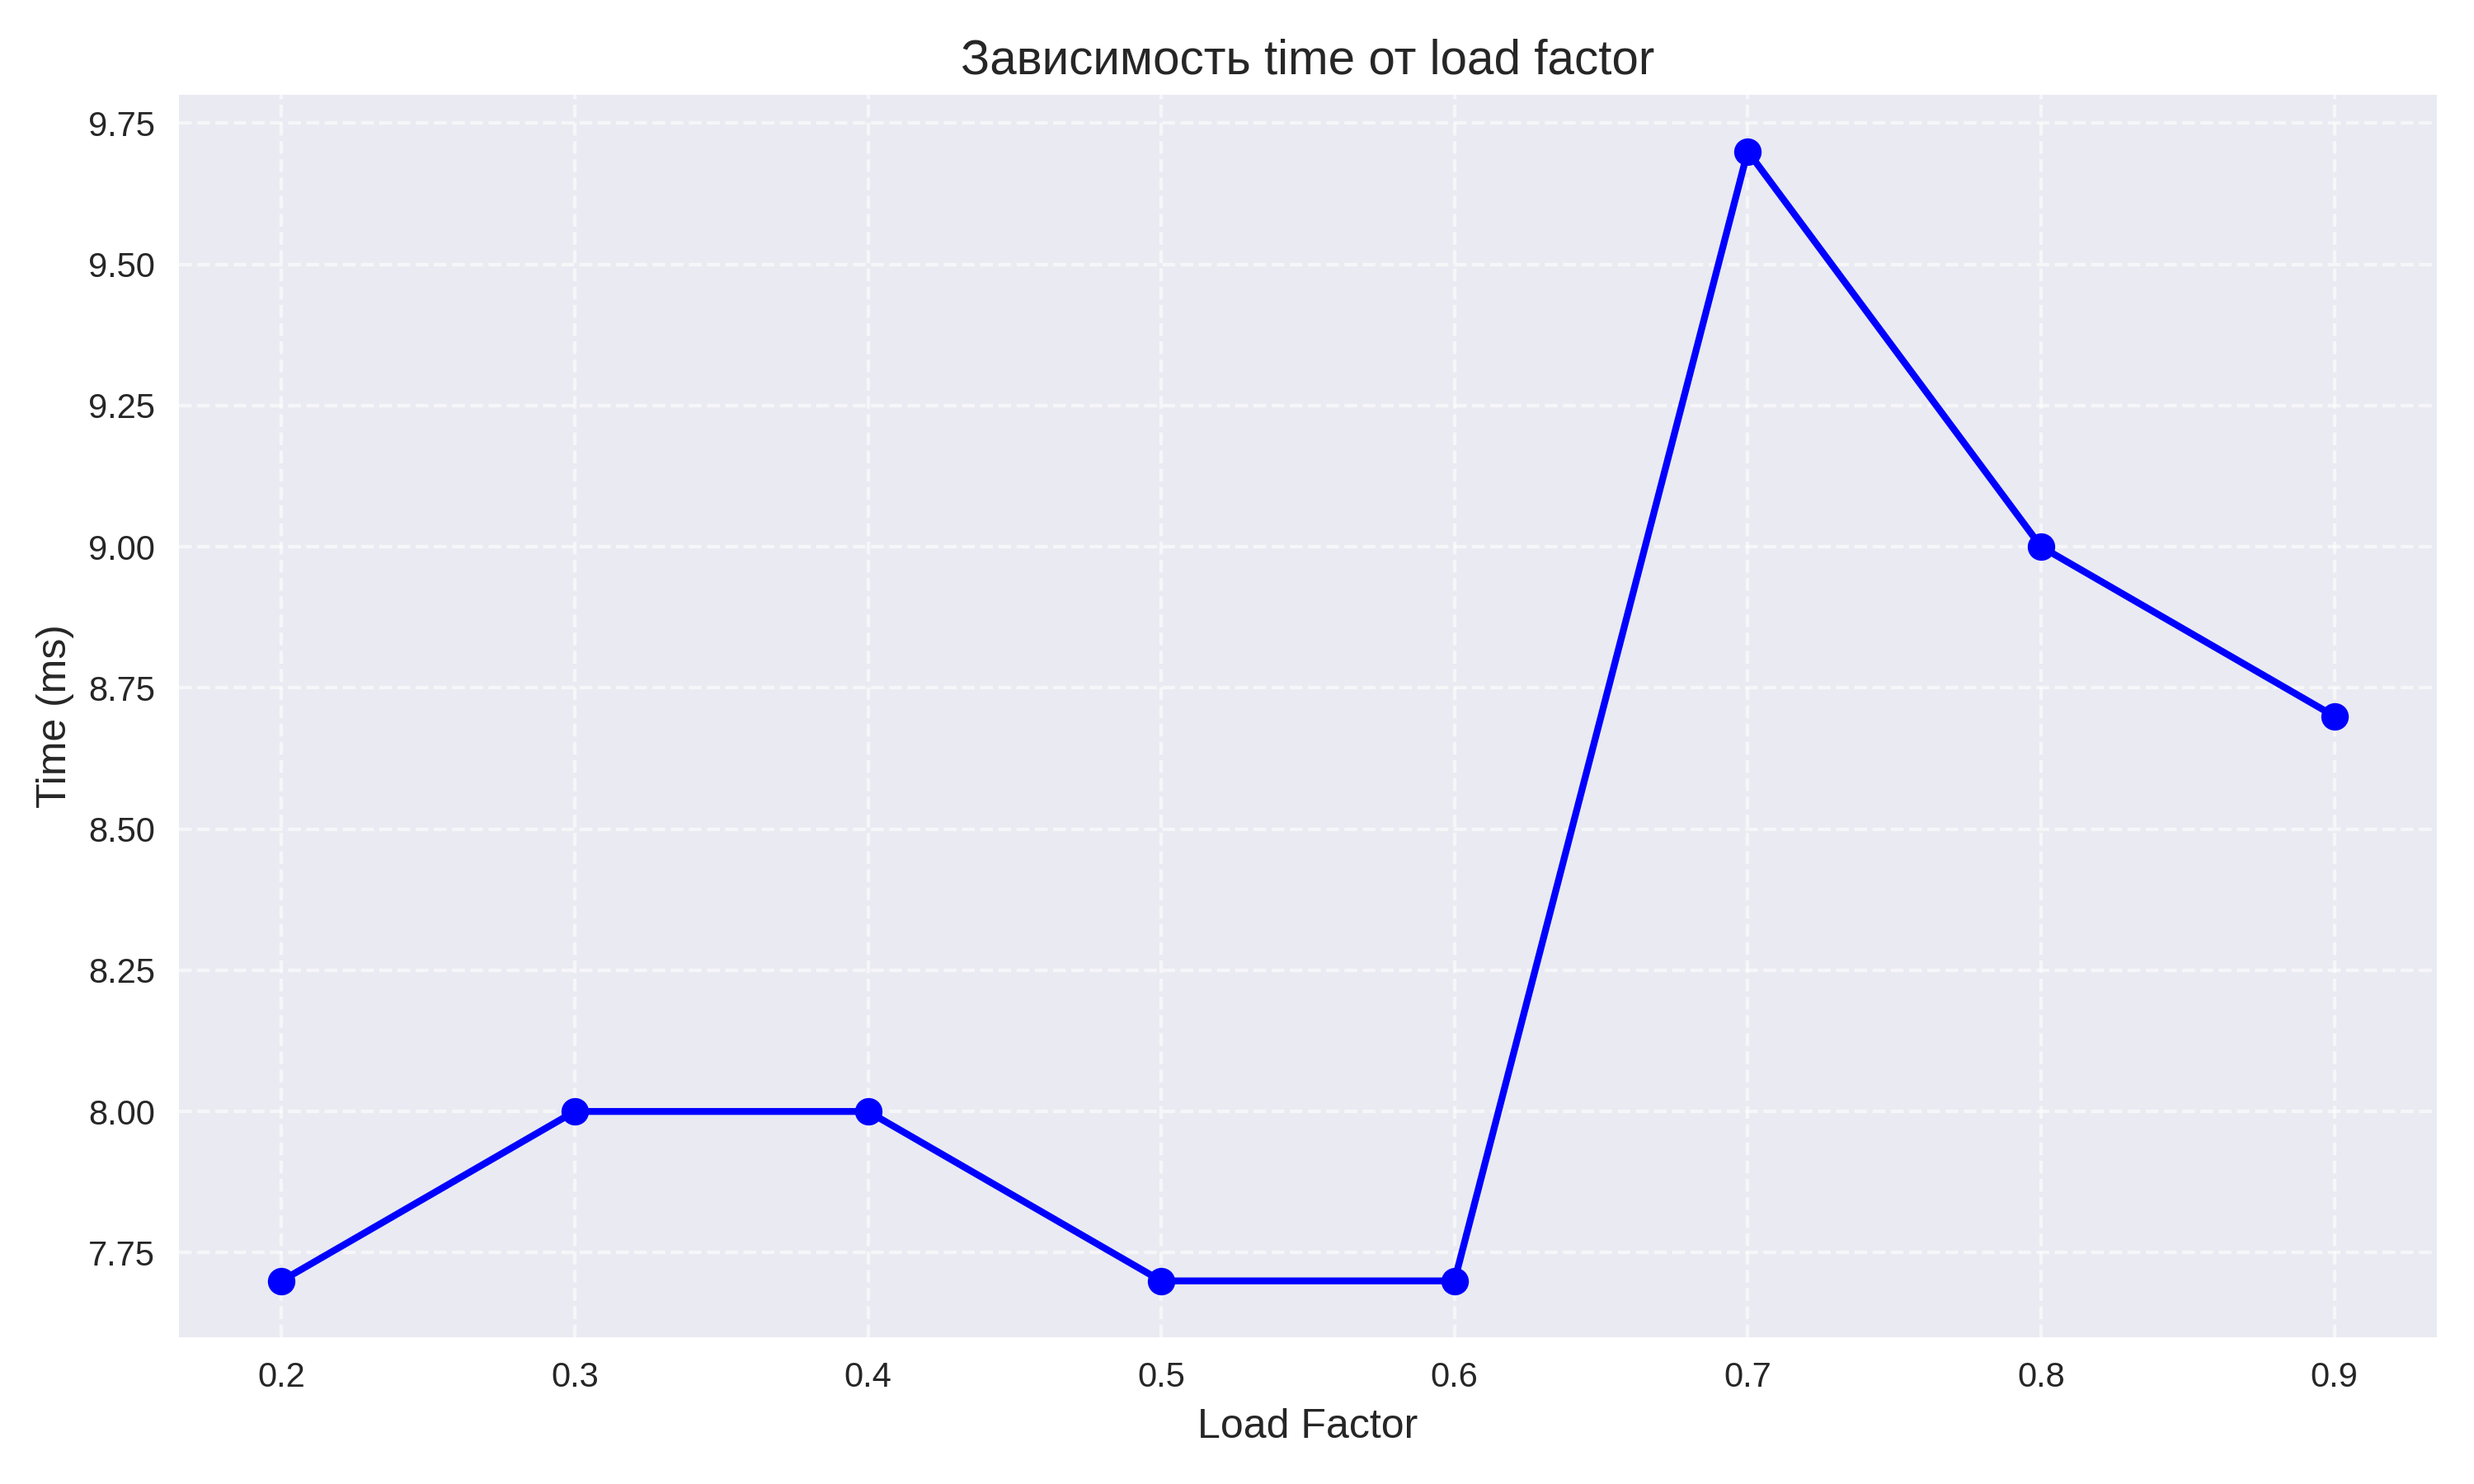
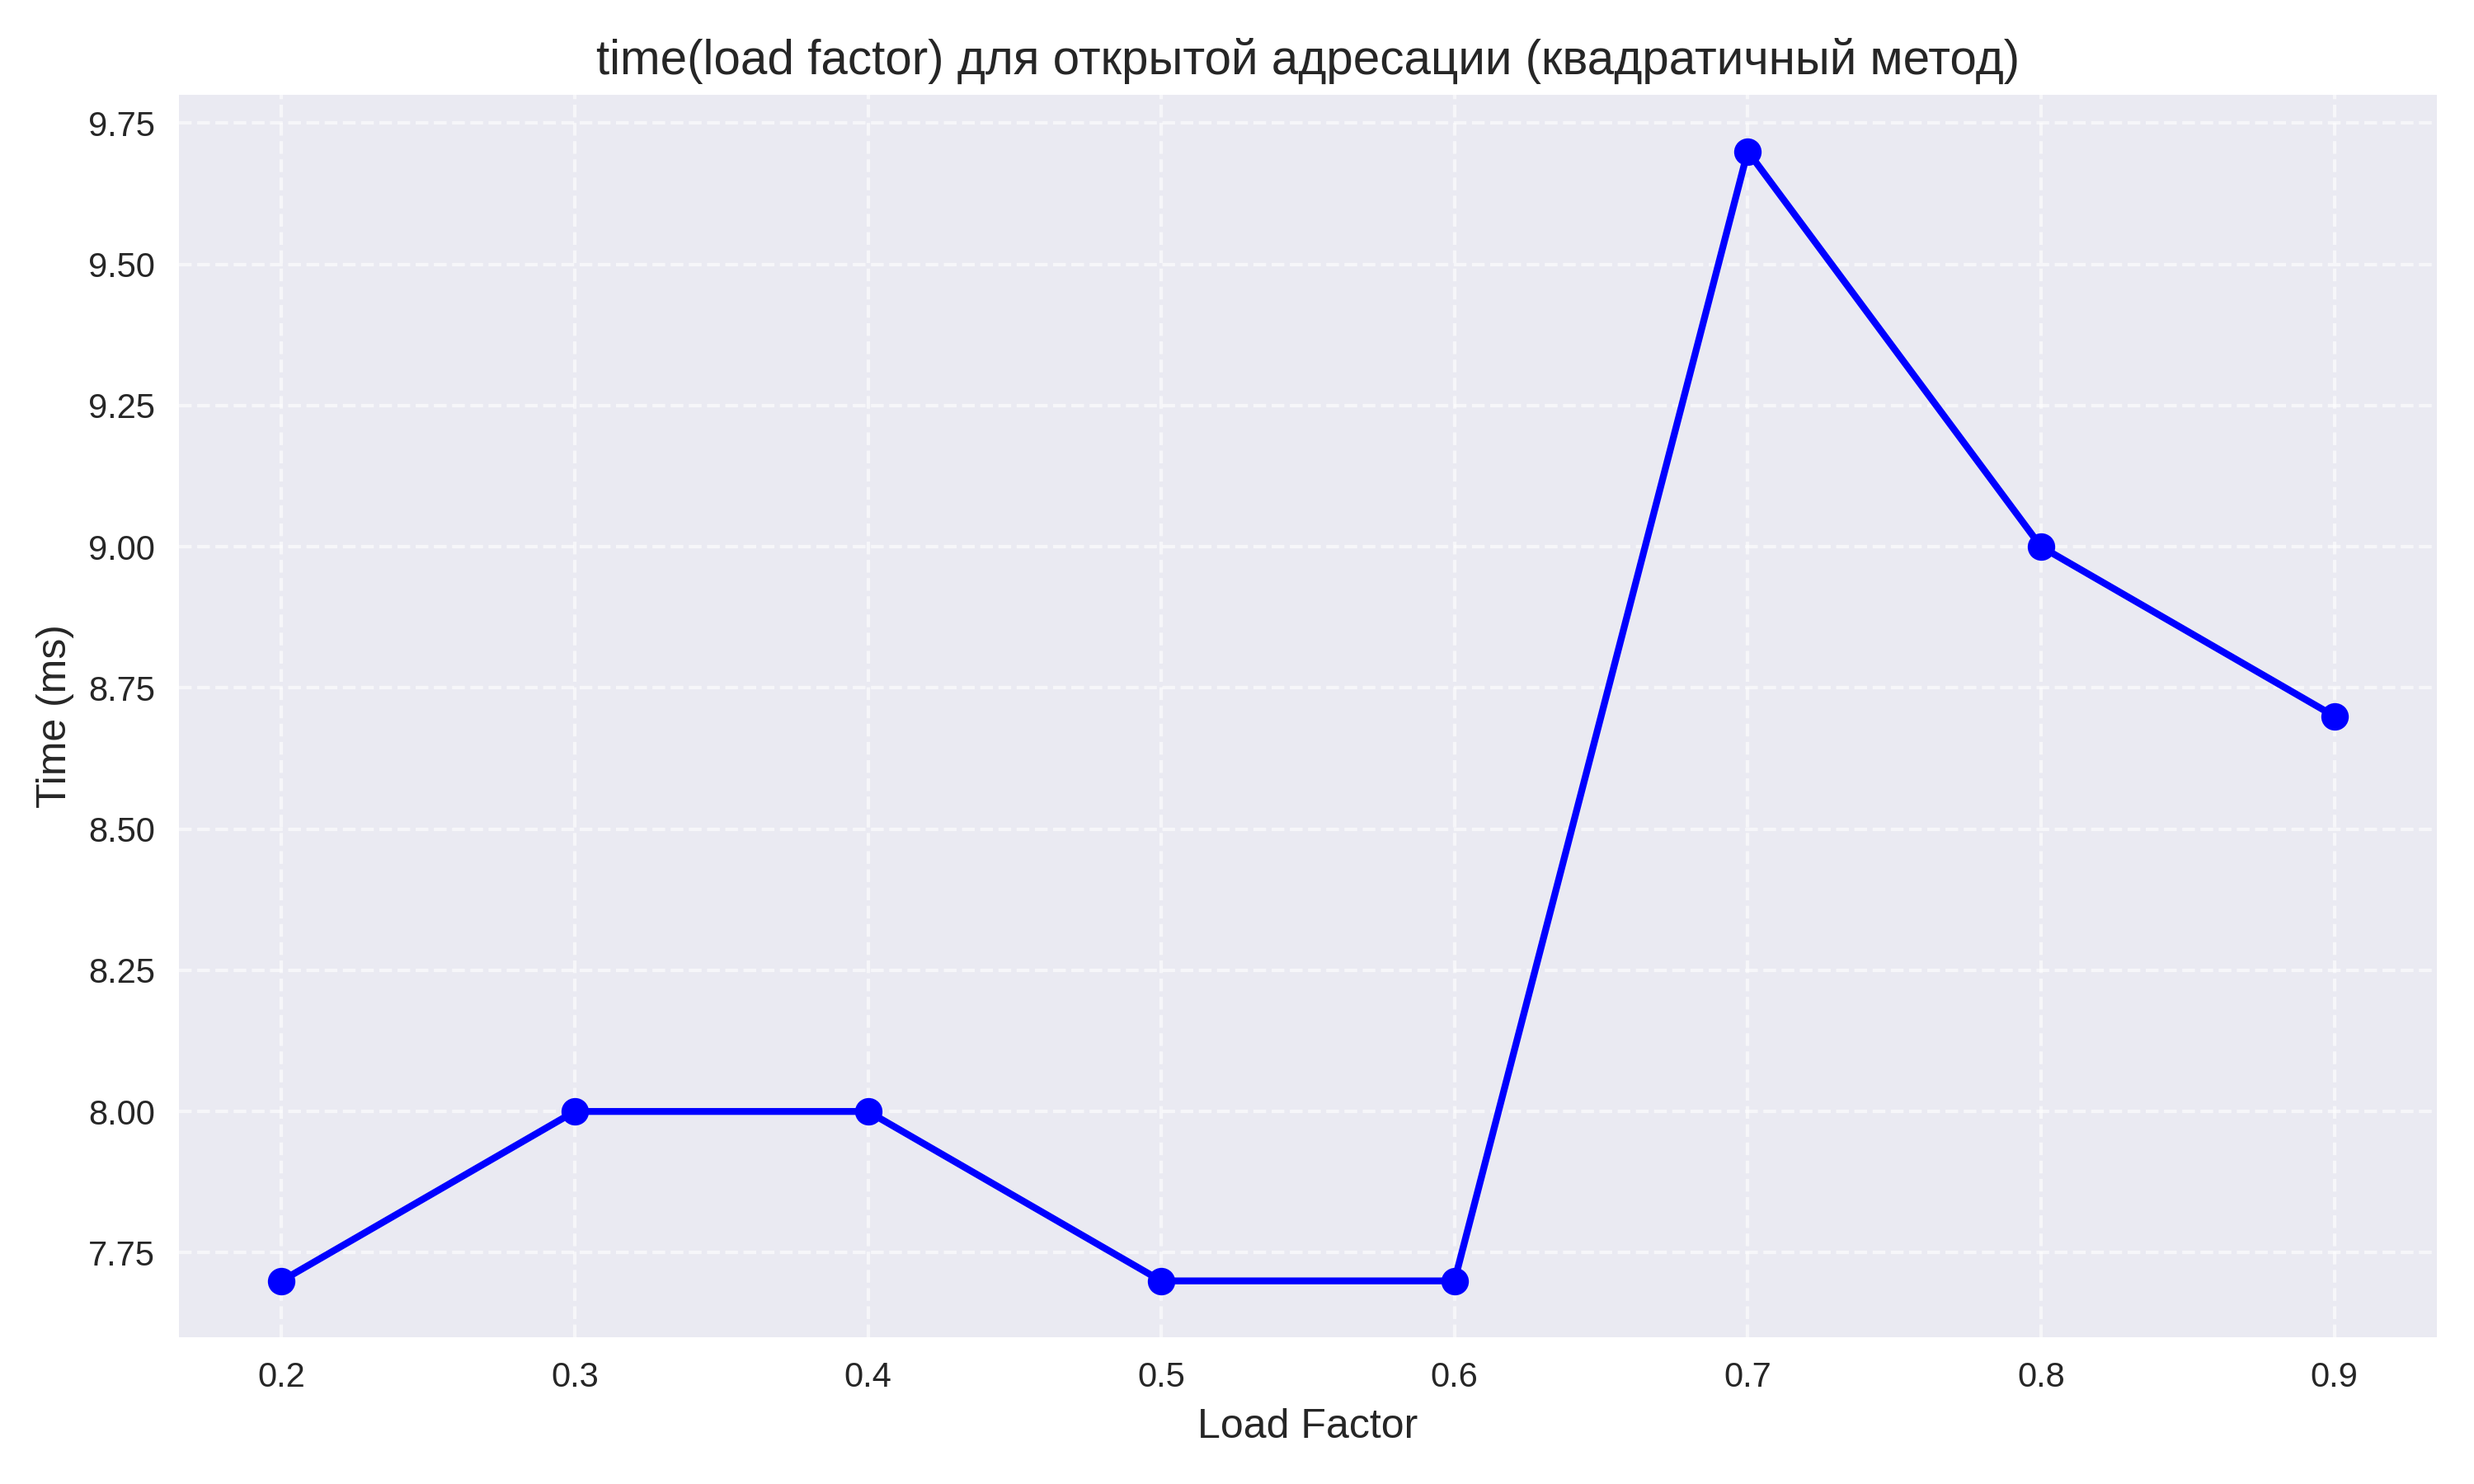
fix graphics (style settings)

Changed region(s): [[0.248, 0.0311, 0.837, 0.0622]]

diff --git a/Lab_5_hashes/Graphics/compare_tables/create_graph.py b/Lab_5_hashes/Graphics/compare_tables/create_graph.py
@@ -10,9 +10,9 @@ def get_tables(filename):
     return x, y
 
 
-# load_factors, times = get_tables("load_factor_list.txt")
+load_factors, times = get_tables("load_factor_list.txt")
 # load_factors, times = get_tables("load_factor_op_addr_line.txt")
-load_factors, times = get_tables("load_factor_op_addr_square.txt")
+# load_factors, times = get_tables("load_factor_op_addr_square.txt")
 
 
 sorted_data = sorted(zip(load_factors, times), key=lambda pair: pair[0])
@@ -25,16 +25,19 @@ plt.plot(load_factors_sorted, times_sorted, 'bo-', linewidth=2, markersize=8)
 
 plt.xlabel('Load Factor', fontsize=12)
 plt.ylabel('Time (ms)', fontsize=12)
-plt.title('Зависимость time от load factor', fontsize=14)
+plt.title('Зависимость time от load factor для метода цепочек', fontsize=15)
+# plt.title('time(load factor) для открытой адресации (линейный метод)', fontsize=15)
+# plt.title('time(load factor) для открытой адресации (квадратичный метод)', fontsize=15)
+
 
 plt.grid(True, linestyle='--', alpha=0.6)
 plt.xticks(fontsize=10)
 plt.yticks(fontsize=10)
 
 plt.tight_layout()
-# plt.savefig('load_factor_list_graph.png', dpi=300)
+plt.savefig('load_factor_list_graph.png', dpi=300)
 # plt.savefig('load_factor_op_addr_line_graph.png', dpi=300)
-plt.savefig('load_factor_op_addr_square_graph.png', dpi=300)
+# plt.savefig('load_factor_op_addr_square_graph.png', dpi=300)
 
 
 

diff --git a/Lab_5_hashes/Graphics/strings/create_graphic.py b/Lab_5_hashes/Graphics/strings/create_graphic.py
@@ -15,7 +15,7 @@ files = ["hash_table_str_len.txt", "hash_table_str_sum.txt", "hash_table_str_pol
 all_data_of_files = [get_tables(file) for file in files]
 
 plt.style.use('seaborn')
-plt.figure(figsize=(24, 7))
+plt.figure(figsize=(20, 10))
 
 # Считаем дисперсию
 y3 = all_data_of_files[2][1]  # Высоты графика 3
@@ -27,16 +27,25 @@ dicp4 = np.var(y4)
 
 
 titles = [
-    "Длина строки",
+    "Длина строки (обрезан по x)",
     "Сумма букв",
     f"Полиномиальная (дисперсия - {dicp3:.2f})",
     f"CRC32 (дисперсия - {dicp4:.2f})"
 ]
 
+widht_stolbs = [
+    0.5,
+    0.6,
+    0.6,
+    0.6
+    ]
+
 # Построение 3 гистограмм в одном ряду
 for i, (x, y) in enumerate(all_data_of_files, 1):
-    plt.subplot(1, 4, i)                  # 1 строка, 4 столбца, текущий график i
-    plt.bar(x, y, color=plt.cm.tab10(i))  # Разные цвета для графиков
+    plt.subplot(2, 2, i)                                           # 2 строкb, 2 столбца, текущий график i
+    if (i == 1):
+        plt.xlim(right=100)
+    plt.bar(x, y, width=widht_stolbs[i-1], color=plt.cm.tab10(i))  # Разные цвета для графиков
     plt.xlabel("Значение хеш-функции")
     plt.ylabel("Количество элементов")
     plt.title(titles[i-1])

diff --git a/Lab_5_hashes/Graphics/numbers/create_graphic.py b/Lab_5_hashes/Graphics/numbers/create_graphic.py
@@ -31,10 +31,17 @@ titles = [
     f"Метод, предложенный Кнутом (дисперсия - {var3:.2f})"
 ]
 
+
+widht_stolbs = [
+    0.5,
+    2,
+    0.8,
+]
+
 # Построение 3 гистограмм в одном ряду
 for i, (x, y) in enumerate(all_data_of_files, 1):
     plt.subplot(1, 3, i)                  # 1 строка, 3 столбца, текущий график i
-    plt.bar(x, y, color=plt.cm.tab10(i))  # Разные цвета для каждого графика
+    plt.bar(x, y, width=widht_stolbs[i-1], color=plt.cm.tab10(i))  # Разные цвета для каждого графика
     plt.xlabel("Значение хеш-функции")
     plt.ylabel("Количество элементов")
     plt.title(titles[i-1])
@@ -43,3 +50,4 @@ for i, (x, y) in enumerate(all_data_of_files, 1):
 plt.tight_layout()  
 plt.savefig("hash_functions_for_numbers_comparison.png", dpi=300)
 plt.show()
+
